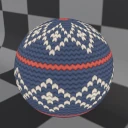
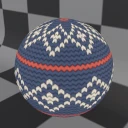
fix(viewer): square the UV repeats of tiled MaterialX samples
The UV-tiled samples halved their V repeat to look right on the preview
sphere, whose U runs twice as far as V, so on models with square UVs their
cells stretched vertically. Their default repeats now assume a UV unit as
long in U as in V, and the thumbnail sphere halves V to match, so the
thumbnails keep their proportions.

diff --git a/viewer/src/dev/thumbnails.ts b/viewer/src/dev/thumbnails.ts
@@ -75,7 +75,12 @@ export function materialStage(): { model: LoadedModel; sphere: THREE.Mesh } {
   const root = new THREE.Group();
   const backdrop = new THREE.Mesh(cycloramaGeometry(), new THREE.MeshStandardMaterial({ map: checker, roughness: 0.82 }));
   backdrop.name = 'Backdrop';
-  const sphere = new THREE.Mesh(new THREE.SphereGeometry(0.94, 128, 64), new THREE.MeshPhysicalMaterial({ roughness: 0.35 }));
+  // U runs around the equator, twice as far as V runs pole to pole; halving V
+  // gives square UV texels, so UV-tiled samples keep their proportions.
+  const sphereGeometry = new THREE.SphereGeometry(0.94, 128, 64);
+  const sphereUv = sphereGeometry.getAttribute('uv');
+  for (let i = 0; i < sphereUv.count; i++) sphereUv.setY(i, sphereUv.getY(i) * 0.5);
+  const sphere = new THREE.Mesh(sphereGeometry, new THREE.MeshPhysicalMaterial({ roughness: 0.35 }));
   sphere.name = 'Material sphere';
   sphere.position.y = -0.06;
   root.add(backdrop, sphere);

diff --git a/docs/materials.md b/docs/materials.md
@@ -536,7 +536,8 @@ ember patterns and the saddle leather's seams use object-space position and
 follow the model's size; the woven, knitted, quilted, denim, satin, tweed,
 rattan, crocodile scales, mossy stone blocks, concrete form, tiled, plated,
 riveted, perforated, scaled, LED and neon ones use UV0 and expose their repeat
-count. The guilloché, the hot steel gradient and the anodized machining lines
+count. Default repeats assume a UV unit as long in U as in V; on a UV sphere,
+where U runs around the equator, halve the V repeat to keep cells in proportion. The guilloché, the hot steel gradient and the anodized machining lines
 are laid out around object Y. Moss, verdigris, stains and rust runs take an
 **Up** input, object +Y by default; set it to `0, 0, 1` for a Z-up model. Runs
 that start at UV-placed rivets and tie holes follow Up through the mesh
